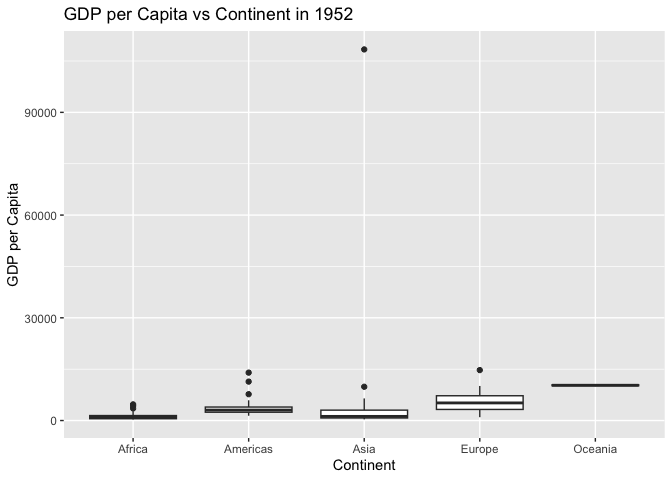
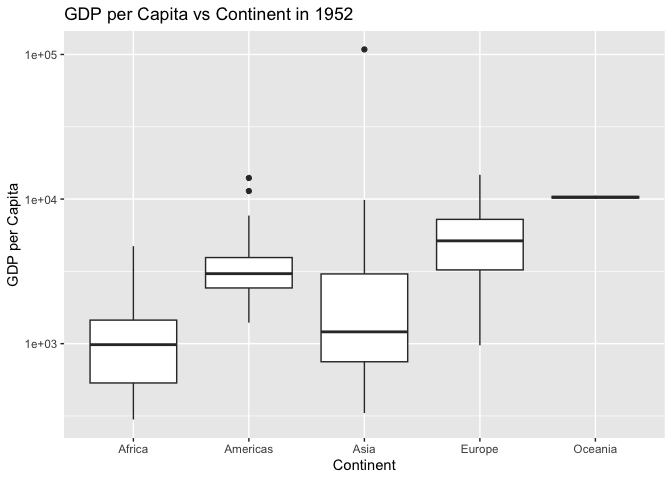
Challenge 4 Revision 1

diff --git a/data-science-curriculum-build-2/challenges/c04-gapminder-assignment.md b/data-science-curriculum-build-2/challenges/c04-gapminder-assignment.md
@@ -223,19 +223,22 @@ df_q2 %>%
   geom_boxplot() +
   labs(title = "GDP per Capita vs Continent in 1952",
        x = "Continent",
-       y = "GDP per Capita")
+       y = "GDP per Capita") +
+  scale_y_log10()
 ```
 
 ![](c04-gapminder-assignment_files/figure-gfm/q2-task-1.png)<!-- -->
 
 **Observations**:
 
-- Write your observations here
+- Write your observations here (REVISION)
 
 I chose to make a box plot to compare the range of GDP Per Capita of
-each continent. The above plot shows that the 1st-3rd quartiles of each
-continent’s GDP per Capita are all relatively the same, with a few
-outliers in the Americas and Asia boxplots.
+each continent. The above plot shows that the GDP Per Capita varies
+significantly by continent, with Asia and Africa having the lowest GDP
+Per Capita’s on average and Oceania and Europe having the highest GDP
+Per Capita’s on average. There are also some outlier countries for the
+Americas boxplot and the Asia boxplot.
 
 **Difficulties & Approaches**:
 
@@ -337,10 +340,22 @@ gapminder %>%
   group_by(continent) %>% 
   ggplot(aes(continent, gdpPercap)) +
   geom_boxplot(aes(fill = factor(year)), alpha = 0.6) +
-  geom_point(data = . %>% filter(country %in% c("United Kingdom", "United States", "Australia", "Bahrain", "Canada", "Denmark", "Kuwait", "Netherlands", "New Zealand", "Norway", "Switzerland")), 
+  geom_point(data = . %>% 
+               filter(country %in% c("United Kingdom", 
+                                     "United States",
+                                     "Australia", 
+                                     "Bahrain", 
+                                     "Canada", 
+                                     "Denmark",
+                                     "Kuwait",
+                                     "Netherlands", 
+                                     "New Zealand",
+                                     "Norway", 
+                                     "Switzerland")), 
              aes(color = country), size = 2) + 
   facet_wrap(~ year) +
-  labs(title = paste("GDP per Capita vs Year (", year_min, " and ", year_max, ")", sep = ""), x = "Year", y = "GDP per Capita")
+  labs(title = paste("GDP per Capita vs Year (", year_min, " and ", year_max,
+                     ")", sep = ""), x = "Year", y = "GDP per Capita")
 ```
 
 ![](c04-gapminder-assignment_files/figure-gfm/q4-task-1.png)<!-- -->
@@ -433,25 +448,50 @@ gdp per capita’s than countries in Europe and the Americas
 ``` r
 ## TASK: Your third graph
 
-gapminder %>%
-  ggplot(aes(x = pop, y = lifeExp, color = continent)) + 
-  geom_point(alpha = 0.7) + 
-  scale_x_log10() + 
-  facet_wrap(~ continent) + 
-  labs(
-    title = "Population Growth vs Life Expectancy by Continent",
-    x = "Population (Log Scale)",
-    y = "Life Expectancy (yr)"
-  )
+df_organize <- gapminder %>% 
+  mutate(region = case_when(
+    country %in% c("Portugal", "Spain", "Italy", "Greece", "Albania", "Serbia", 
+                   "Bulgaria", "Croatia", "Bosnia and Herzegovina", 
+                   "North Macedonia") ~ "Southern Europe",
+    country %in% c("Finland", "Sweden", "Norway", "Denmark", "Iceland", 
+                   "Estonia", "Latvia", "Lithuania", "France", "Germany", 
+                   "United Kingdom") ~ "Northern Europe",
+    TRUE ~ "Other")
+    )
+
+
+df_q5 <- df_organize %>% 
+  filter(region %in% c("Southern Europe", "Northern Europe"))
+  
+  
+ggplot(df_q5, aes(x = year, y = gdpPercap, color = region, group = country)) +
+  geom_line() +
+  geom_smooth(aes(group = region), method = "loess", se = FALSE, size = 1.2, linetype = "dotted") +
+  labs(title = "GDP per Capita Growth in Southern vs Northern Europe (by Country)",
+       x = "Year",
+       y = "GDP per Capita") +
+  scale_y_log10()
 ```
+
+    ## Warning: Using `size` aesthetic for lines was deprecated in ggplot2 3.4.0.
+    ## ℹ Please use `linewidth` instead.
+    ## This warning is displayed once every 8 hours.
+    ## Call `lifecycle::last_lifecycle_warnings()` to see where this warning was
+    ## generated.
+
+    ## `geom_smooth()` using formula = 'y ~ x'
 
 ![](c04-gapminder-assignment_files/figure-gfm/q5-task3-1.png)<!-- -->
 
-- (Your notes and observations here) Question: How does the growth of
-  population influence Life Expectancy?
+- (Your notes and observations here) Question: How has the GDP Per
+  Capita growth differed between Northern Europe and Southern Europe?
 
-Observations: - The plots above show that there is a general positive
-correlation between an increase in population and life expectancy -
-There are a few clusters of points in Africa that do not follow this
-pattern, which could be due to overpopulation or an extreme event such
-as war and/or famine.
+Observations: - On average Southern European countries have had lower
+GDP per Capita’s than Northern European countries - This could be
+attributed to the stronger economies of Northern European countries -
+Many Southern European countries were also subject to oppressive regimes
+(e.g. Spain, Italy, Yugoslavia, Albania) - Another feature that many
+Southern European countries share is a GDP Per Capita “dip” in the
+1990’s. These countries are primarily the Balkan countries (Albania,
+Serbia, Croatia, Bosnia and Herzegovina), which suffered devastating
+conflicts, regime changes, and civil wars during the fall of communism
